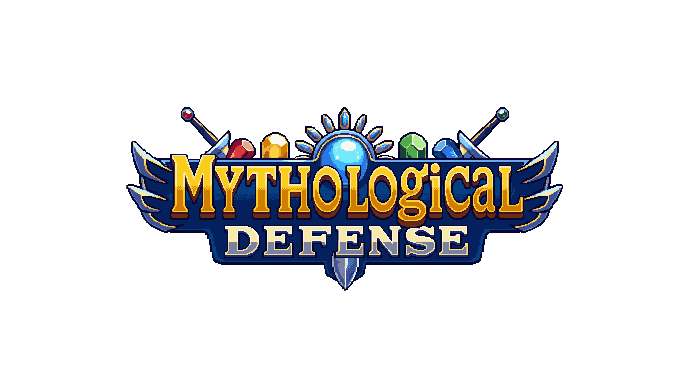
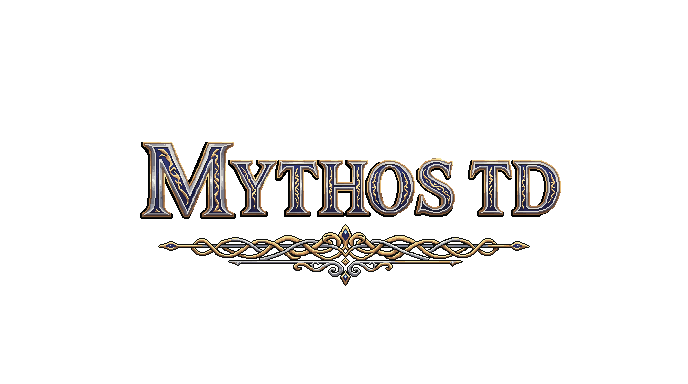
update wave numbers and title

Changed region(s): [[0.1831, 0.2812, 0.8241, 0.75]]

diff --git a/src/scenes/Level2.js b/src/scenes/Level2.js
@@ -49,14 +49,14 @@ export default class Level2 extends Phaser.Scene {
     // Enemy types: 0=Oni, 1=flying_fly, 2=Minotaur
 
     static waveData = [
-        { enemies: [{ type: 0, count: 2, spawnPoint: 2 }] },
-        { enemies: [{ type: 1, count: 3, spawnPoint: 4 }] },
-        { enemies: [{ type: 2, count: 2, spawnPoint: 5 }, { type: 0, count: 2, spawnPoint: 2 }] },
-        { enemies: [{ type: 0, count: 3, spawnPoint: 4 }, { type: 1, count: 2, spawnPoint: 5 }] },
-        { enemies: [{ type: 2, count: 3, spawnPoint: 2 }, { type: 1, count: 3, spawnPoint: 4 }] },
-        { enemies: [{ type: 1, count: 4, spawnPoint: 5 }, { type: 0, count: 2, spawnPoint: 2 }] },
-        { enemies: [{ type: 2, count: 3, spawnPoint: 4 }, { type: 0, count: 3, spawnPoint: 5 }, { type: 1, count: 1, spawnPoint: 2 }] },
-        { enemies: [{ type: 0, count: 4, spawnPoint: 2 }, { type: 1, count: 4, spawnPoint: 4 }] }
+        { enemies: [{ type: 0, count: 6, spawnPoint: 2 }] },
+        { enemies: [{ type: 1, count: 9, spawnPoint: 4 }] },
+        { enemies: [{ type: 2, count: 6, spawnPoint: 5 }, { type: 0, count: 6, spawnPoint: 2 }] },
+        { enemies: [{ type: 0, count: 9, spawnPoint: 4 }, { type: 1, count: 6, spawnPoint: 5 }] },
+        { enemies: [{ type: 2, count: 9, spawnPoint: 2 }, { type: 1, count: 9, spawnPoint: 4 }] },
+        { enemies: [{ type: 1, count: 12, spawnPoint: 5 }, { type: 0, count: 6, spawnPoint: 2 }] },
+        { enemies: [{ type: 2, count: 9, spawnPoint: 4 }, { type: 0, count: 9, spawnPoint: 5 }, { type: 1, count: 4, spawnPoint: 2 }] },
+        { enemies: [{ type: 0, count: 12, spawnPoint: 2 }, { type: 1, count: 12, spawnPoint: 4 }] }
     ];
 
     static tileTypes = {

diff --git a/src/scenes/Level3.js b/src/scenes/Level3.js
@@ -46,14 +46,14 @@ export default class Level3 extends Phaser.Scene {
     ];
 
     static waveData = [
-        { enemies: [{ type: 0, count: 3, spawnPoint: 2 }, { type: 1, count: 2, spawnPoint: 4 }, { type: 3, count: 2, spawnPoint: 5 }] },
-        { enemies: [{ type: 1, count: 4, spawnPoint: 4 }, { type: 4, count: 6, spawnPoint: 5 }] },
-        { enemies: [{ type: 2, count: 5, spawnPoint: 2 }, { type: 1, count: 5, spawnPoint: 5 }] },
-        { enemies: [{ type: 0, count: 2, spawnPoint: 4 }, { type: 1, count: 2, spawnPoint: 2 }, { type: 2, count: 2, spawnPoint: 5 }] },
-        { enemies: [{ type: 5, count: 3, spawnPoint: 5 }, { type: 6, count: 2, spawnPoint: 4 }] },
-        { enemies: [{ type: 0, count: 7, spawnPoint: 2 }, { type: 2, count: 5, spawnPoint: 4 }, { type: 1, count: 1, spawnPoint: 5 }] },
-        { enemies: [{ type: 2, count: 4, spawnPoint: 5 }, { type: 7, count: 5, spawnPoint: 2 }] },
-        { enemies: [{ type: 4, count: 10, spawnPoint: 4 }, { type: 1, count: 10, spawnPoint: 5 }, { type: 2, count: 5, spawnPoint: 2 }] },
+        { enemies: [{ type: 0, count: 12, spawnPoint: 2 }, { type: 1, count: 6, spawnPoint: 4 }, { type: 3, count: 6, spawnPoint: 5 }] },
+        { enemies: [{ type: 1, count: 16, spawnPoint: 4 }, { type: 4, count: 8, spawnPoint: 5 }] },
+        { enemies: [{ type: 2, count: 15, spawnPoint: 2 }, { type: 1, count: 8, spawnPoint: 5 }] },
+        { enemies: [{ type: 0, count: 6, spawnPoint: 4 }, { type: 1, count: 8, spawnPoint: 2 }, { type: 2, count: 6, spawnPoint: 5 }] },
+        { enemies: [{ type: 5, count: 10, spawnPoint: 5 }, { type: 6, count: 2, spawnPoint: 4 }] },
+        { enemies: [{ type: 0, count: 15, spawnPoint: 2 }, { type: 2, count: 6, spawnPoint: 4 }, { type: 1, count: 5, spawnPoint: 5 }] },
+        { enemies: [{ type: 2, count: 8, spawnPoint: 5 }, { type: 7, count: 9, spawnPoint: 2 }] },
+        { enemies: [{ type: 4, count: 14, spawnPoint: 4 }, { type: 1, count: 12, spawnPoint: 5 }, { type: 2, count: 5, spawnPoint: 2 }] },
     ];
 
     static tileTypes = {